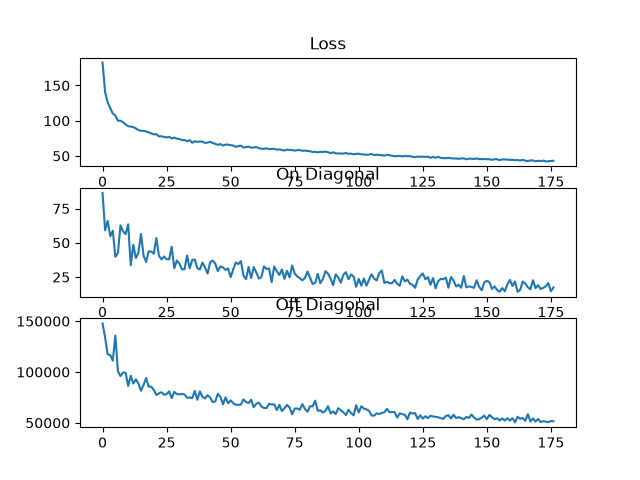
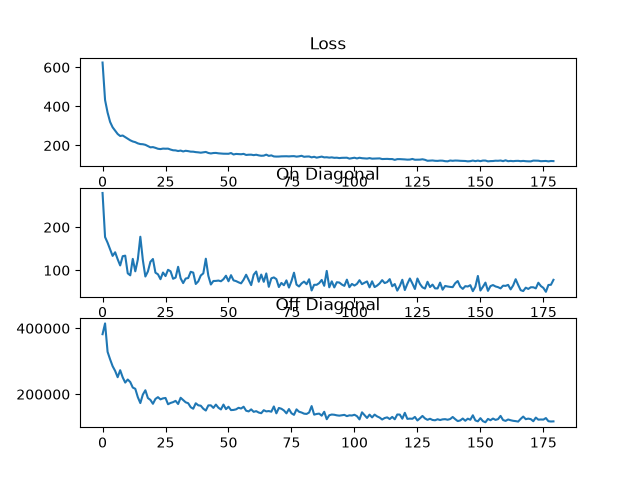
added test for augmentation

diff --git a/music_encoding/augmenter.py b/music_encoding/augmenter.py
@@ -1,9 +1,56 @@
-from torch import nn
-import time
 import random
+
 import torch as tc
+import torch.nn.functional as F
 import torchaudio as ta
 
+
+class SpectrogramAugmenter:
+    """
+    Operates on mel-spectrograms of shape (B, 1, n_mels, T) — i.e. after
+    self.mel / self.to_db, before the conv stack.
+    """
+
+    def __init__(
+        self,
+        rrc_scale_range: tuple[float, float] = (0.8, 1.0),
+        rrc_ratio_range: tuple[float, float] = (0.85, 1.15),
+        rrc_p: float = 0.6,
+    ):
+        self.rrc_scale_range = rrc_scale_range
+        self.rrc_ratio_range = rrc_ratio_range
+        self.rrc_p = rrc_p
+
+    def random_resized_crop(self, spec: tc.Tensor, mask: tc.Tensor) -> tc.Tensor:
+        B, C, H, W = spec.shape
+        device = spec.device
+
+        area_frac = tc.empty(B, device=device).uniform_(*self.rrc_scale_range)
+        aspect = tc.empty(B, device=device).uniform_(*self.rrc_ratio_range)
+
+        crop_h_frac = (area_frac / aspect).sqrt().clamp(max=1.0)
+        crop_w_frac = (area_frac * aspect).sqrt().clamp(max=1.0)
+
+        max_cx = 1.0 - crop_w_frac
+        max_cy = 1.0 - crop_h_frac
+        cx = (tc.rand(B, device=device) * 2 - 1) * max_cx
+        cy = (tc.rand(B, device=device) * 2 - 1) * max_cy
+
+        theta = tc.zeros(B, 2, 3, device=device)
+        theta[:, 0, 0] = crop_w_frac
+        theta[:, 1, 1] = crop_h_frac
+        theta[:, 0, 2] = cx
+        theta[:, 1, 2] = cy
+
+        grid = F.affine_grid(theta, size=[B, C, H, W], align_corners=False)
+        cropped = F.grid_sample(spec, grid, mode="bilinear", align_corners=False)
+
+        return tc.where(mask.view(-1, 1, 1, 1), cropped, spec)
+
+    def __call__(self, spec: tc.Tensor) -> tc.Tensor:
+        B = spec.shape[0]
+        mask = tc.rand(B, device=spec.device) < self.rrc_p
+        return self.random_resized_crop(spec, mask)
 
 class AudioAugmenter:
     def __init__(
@@ -47,16 +94,6 @@ class AudioAugmenter:
         db = random.uniform(*self.gain_db_range)
         return (wav * (10 ** (db / 20))).clamp(-1.0, 1.0)
 
-    def pitch_shift(self, wav: tc.Tensor) -> tc.Tensor:
-        bins_per_octave = 24  # each "step" is now a quarter-tone, not a semitone
-        shift_semitones = random.uniform(*self.pitch_range)
-        n_steps = round(shift_semitones * (bins_per_octave / 12))
-        if n_steps == 0:
-            return wav
-        return ta.functional.pitch_shift(
-            wav.unsqueeze(0), self.sr, n_steps, bins_per_octave=bins_per_octave
-        ).squeeze(0)
-
     def lowpass(self, wav: tc.Tensor) -> tc.Tensor:
         # simulates phone-mic / lossy-compression frequency rolloff
         cutoff = random.uniform(2000, 8000)
@@ -65,106 +102,11 @@ class AudioAugmenter:
     def __call__(self, wav: tc.Tensor) -> tc.Tensor:
         # apply a random subset — not every augmentation every time, so the
         # network sees a genuine distribution of distortion combinations
-        if random.random() < 0.7:
-            wav = self.add_noise(wav)
-        if random.random() < 0.4:
-            wav = self.add_reverb(wav)
-        # if random.random() < 0.25:
-        #     wav = self.pitch_shift(wav)
-        # skip for now since it doesnt fit use case
+        wav = self.add_noise(wav)
+        # if random.random() < 0.4:
+        #     wav = self.add_reverb(wav)
         if random.random() < 0.3:
             wav = self.lowpass(wav)
         if random.random() < 0.5:
             wav = self.gain(wav)
-        return wav
-
-
-class BatchAudioAugmenter:
-    def __init__(
-        self,
-        sr: int = 22050,
-        noise_snr_range: tuple[float, float] = (5.0, 20.0),
-        gain_db_range: tuple[float, float] = (-6.0, 6.0),
-        rir_t60s: tuple[float, ...] = (0.15, 0.3),
-        noise_p: float = 0.7,
-        reverb_p: float = 0.4,
-        lowpass_p: float = 0.3,
-        gain_p: float = 0.5,
-        device: str = "cuda",
-    ):
-        self.sr = sr
-        self.noise_snr_range = noise_snr_range
-        self.gain_db_range = gain_db_range
-        self.noise_p = noise_p
-        self.reverb_p = reverb_p
-        self.lowpass_p = lowpass_p
-        self.gain_p = gain_p
-        self.device = device
-        # precompute RIR bank as a single stacked tensor, padded to the longest kernel
-        rirs = [self._make_synthetic_rir(t60) for t60 in rir_t60s]
-        max_len = max(r.shape[0] for r in rirs)
-        self.rirs = tc.stack(
-            [nn.functional.pad(r, (0, max_len - r.shape[0])) for r in rirs]
-        ).to(device)  # (n_rirs, max_rir_len)
-
-    def _make_synthetic_rir(self, t60: float) -> tc.Tensor:
-        n = int(self.sr * t60)
-        noise = tc.randn(n)
-        decay = tc.exp(-tc.arange(n, dtype=tc.float32) / (self.sr * t60 / 6.9))
-        rir = noise * decay
-        return rir / rir.abs().max().clamp(min=1e-8)
-
-    def add_noise(self, wav: tc.Tensor, mask: tc.Tensor) -> tc.Tensor:
-        B = wav.shape[0]
-        snr_db = tc.empty(B, device=wav.device).uniform_(*self.noise_snr_range)
-        noise = tc.randn_like(wav)
-        sig_power = wav.pow(2).mean(dim=-1).clamp(min=1e-8)
-        noise_power = noise.pow(2).mean(dim=-1).clamp(min=1e-8)
-        factor = (sig_power / (noise_power * 10 ** (snr_db / 10))).sqrt().unsqueeze(-1)
-        out = wav + noise * factor
-        return tc.where(mask.unsqueeze(-1), out, wav)
-
-    def add_reverb(self, wav: tc.Tensor, mask: tc.Tensor) -> tc.Tensor:
-        B, N = wav.shape
-        rir_idx = tc.randint(0, self.rirs.shape[0], (B,), device=wav.device)
-        rir = self.rirs[rir_idx]  # (B, max_rir_len)
-        orig_peak = wav.abs().max(dim=-1, keepdim=True).values.clamp(min=1e-8)
-
-        # batched FFT convolution: pad both to a common conv length, multiply in freq domain
-        conv_len = N + rir.shape[-1] - 1
-        fft_n = 1 << (conv_len - 1).bit_length()  # next power of 2 for efficiency
-        wav_f = tc.fft.rfft(wav, n=fft_n)
-        rir_f = tc.fft.rfft(rir, n=fft_n)
-        out = tc.fft.irfft(wav_f * rir_f, n=fft_n)[:, :N]
-
-        out_peak = out.abs().max(dim=-1, keepdim=True).values.clamp(min=1e-8)
-        out = out / out_peak * orig_peak
-        return tc.where(mask.unsqueeze(-1), out, wav)
-
-    def lowpass(self, wav: tc.Tensor, mask: tc.Tensor) -> tc.Tensor:
-        # simple single-pole lowpass per-sample cutoff, vectorized across batch
-        B = wav.shape[0]
-        cutoff = tc.empty(B, device=wav.device).uniform_(2000, 8000)
-        alpha = tc.exp(-2 * tc.pi * cutoff / self.sr)  # (B,)
-        out = tc.zeros_like(wav)
-        out[:, 0] = wav[:, 0]
-        # sequential recurrence — see note below on cost
-        for t in range(1, wav.shape[-1]):
-            out[:, t] = alpha * out[:, t - 1] + (1 - alpha) * wav[:, t]
-        return tc.where(mask.unsqueeze(-1), out, wav)
-
-    def gain(self, wav: tc.Tensor, mask: tc.Tensor) -> tc.Tensor:
-        B = wav.shape[0]
-        db = tc.empty(B, device=wav.device).uniform_(*self.gain_db_range)
-        factor = (10 ** (db / 20)).unsqueeze(-1)
-        out = (wav * factor).clamp(-1.0, 1.0)
-        return tc.where(mask.unsqueeze(-1), out, wav)
-
-    def __call__(self, wav: tc.Tensor) -> tc.Tensor:
-        B = wav.shape[0]
-        device = wav.device
-        wav = self.add_noise(wav, tc.rand(B, device=device) < self.noise_p)
-        wav = self.add_reverb(wav, tc.rand(B, device=device) < self.reverb_p)
-        wav = self.lowpass(wav, tc.rand(B, device=device) < self.lowpass_p)
-        wav = self.gain(wav, tc.rand(B, device=device) < self.gain_p)
         return wav

diff --git a/music_encoding/test_augmentation.py b/music_encoding/test_augmentation.py
@@ -1,0 +1,25 @@
+import pathlib
+from music_encoding.twin_dataset import load_resampled_cached, resample
+import torch as tc
+import datasets
+from music_encoding.augmenter import AudioAugmenter
+
+from torchcodec.decoders import AudioDecoder
+import torchaudio as ta
+
+ds = datasets.load_dataset("benjamin-paine/free-music-archive-small")["train"]
+for i in range(20):
+    decoder: AudioDecoder  = ds[0]["audio"]
+    samples = decoder.get_all_samples()
+    wav: tc.Tensor = samples.data  # (num_channels, num_samples), float32
+    sr: int = samples.sample_rate
+
+    wav =resample(wav, src_sr=sr, tgt_sr=22050)
+
+    augmenter = AudioAugmenter()
+
+    wav_augmented = augmenter(wav)
+
+    ta.save(f"test_aug_{i}.wav", wav_augmented, 22050)
+
+
